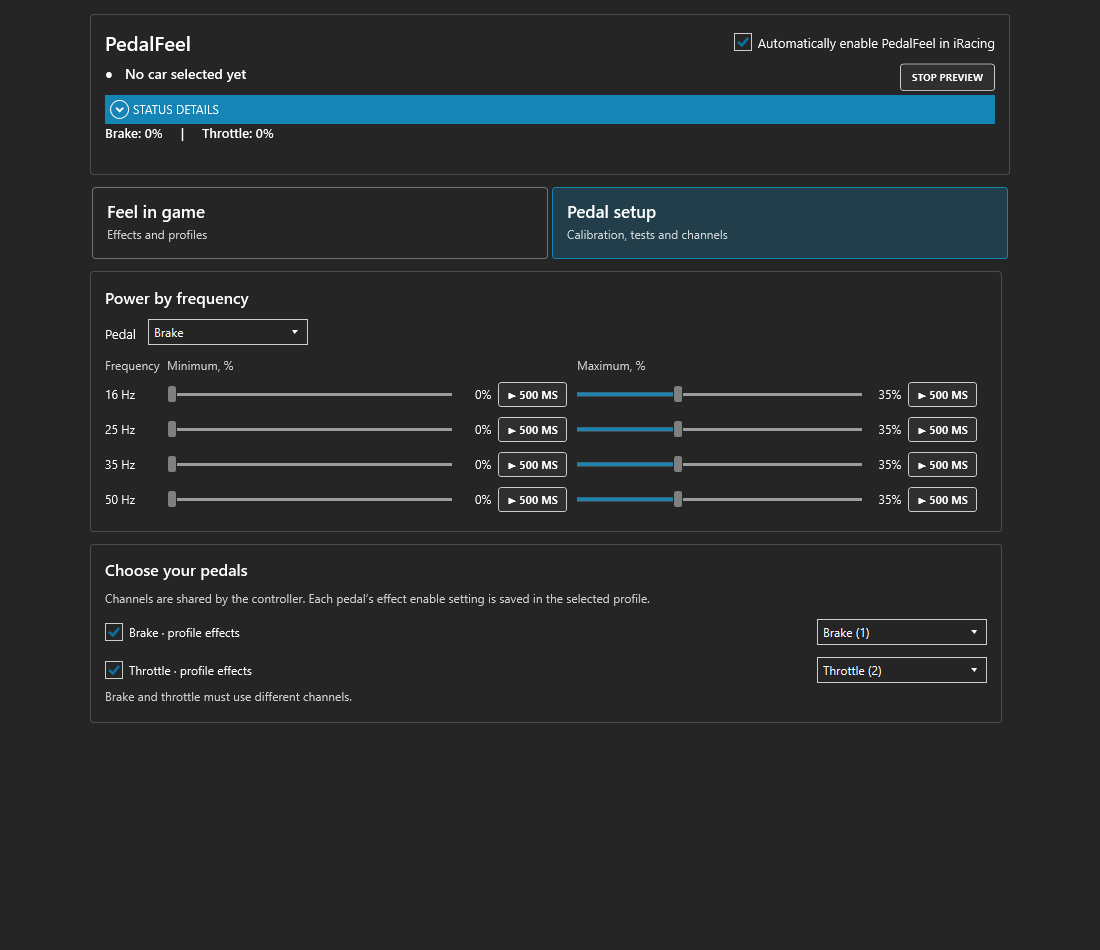
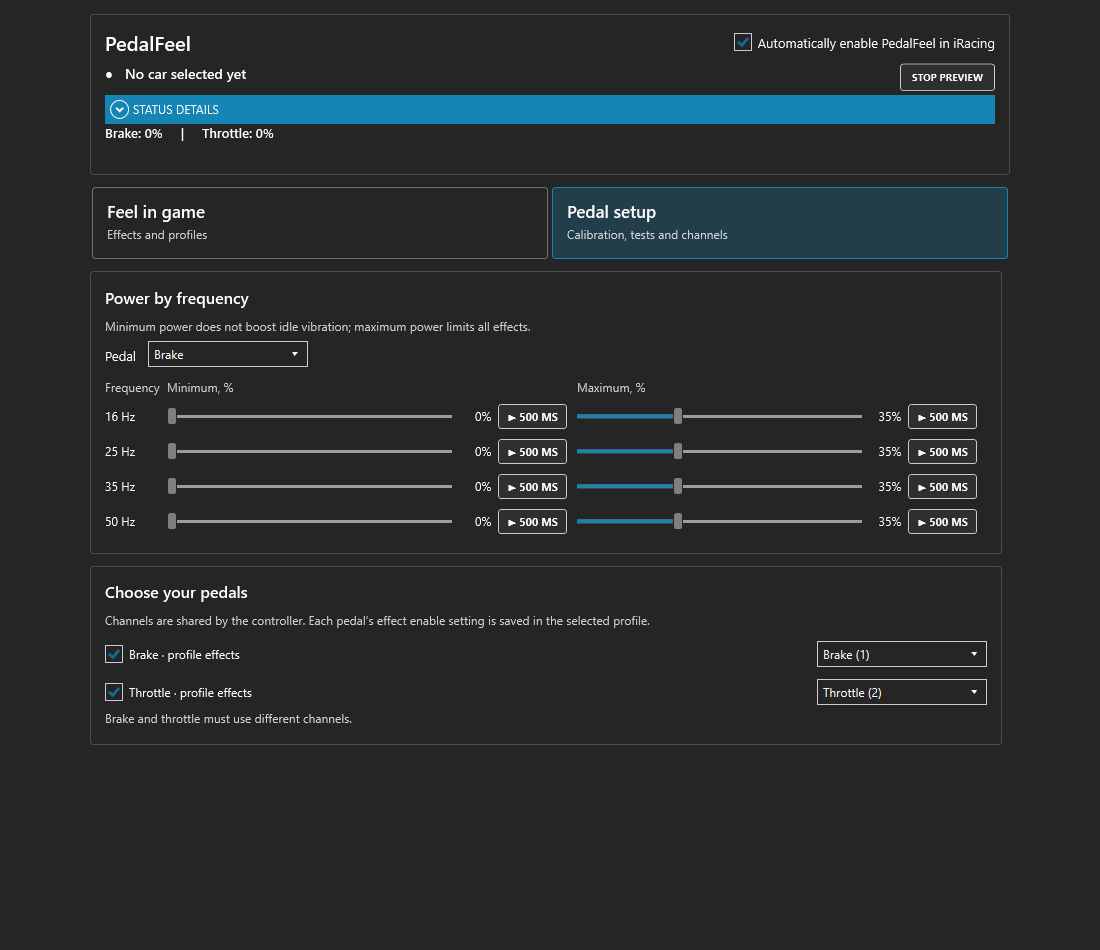
Keep stationary pedal feedback limited to configured idle

diff --git a/native/src/engine.cpp b/native/src/engine.cpp
@@ -9,6 +9,17 @@ namespace {
 bool range(double value, double minimum, double maximum) noexcept {
     return std::isfinite(value) && value >= minimum && value <= maximum;
 }
+pedalfeel::HapticFrame mixEngineCue(const pedalfeel::HapticFrame& brake,
+                                    const pedalfeel::HapticFrame& engine) noexcept {
+    auto mixed = pedalfeel::mixSurfaceCue(brake, engine);
+    // A quieter engine layer cannot retune or relabel a stronger brake cue.
+    if (brake.output >= engine.output && brake.output > .001) {
+        mixed.frequencyHz = brake.frequencyHz;
+        mixed.mode = brake.mode;
+    }
+    return mixed;
+}
+
 bool curve(const int32_t* minimum, const int32_t* maximum) noexcept {
     for (int i = 0; i < 4; ++i)
         if (minimum[i] < 0 || maximum[i] > 100 || minimum[i] > maximum[i])
@@ -26,7 +37,14 @@ void physical(const pedalfeel::HapticFrame& frame, double gain, const int32_t* m
     const int frequency = static_cast<int>(std::lround(std::clamp(frame.frequencyHz, 10.0, 50.0)));
     const pedalfeel::simagic::IntensityCurve low{minimum[0], minimum[1], minimum[2], minimum[3]};
     const pedalfeel::simagic::IntensityCurve high{maximum[0], maximum[1], maximum[2], maximum[3]};
-    intensity = pedalfeel::simagic::calibrateIntensity(requested, frequency, low, high);
+    if (frame.mode == pedalfeel::HapticMode::Idle) {
+        // Idle is a background level, not an alert: a motor's minimum must not
+        // turn a small idle setting into a strong continuous vibration.
+        const int ceiling = pedalfeel::simagic::interpolateIntensityCurve(high, frequency);
+        intensity = static_cast<int>(std::lround(std::clamp(frame.output * gain, 0.0, 1.0) * ceiling));
+    } else {
+        intensity = pedalfeel::simagic::calibrateIntensity(requested, frequency, low, high);
+    }
     hz = intensity > 0 ? frequency : 0;
 }
 
@@ -79,6 +97,7 @@ void Engine::resetRenderers() noexcept {
     brakeEngine_ = {};
     surface_ = {};
     running_ = false;
+    stationary_ = true;
 }
 
 void Engine::quiet() noexcept {
@@ -121,19 +140,39 @@ PfOutput Engine::update(bool fresh, bool connected, const pedalfeel::VehicleStat
             resetRenderers();
         pedalfeel::HapticFrame brake{}, throttle{};
         if (active) {
-            const pedalfeel::RenderSettings settings{config_.grip_threshold, config_.brake_strength,
-                                                    config_.brake_texture, config_.abs_punch,
-                                                    config_.downshift_kick};
-            brake = brake_.render(state, settings, includeLoading);
-            throttle = throttle_.render(state, config_.traction_strength, config_.engine_texture,
-                                        config_.shift_kick, config_.idle_texture, config_.limiter_strength);
-            auto engineOnBrake = brakeEngine_.render(state, 0, config_.brake_engine_texture, 0, config_.brake_idle_texture, 0);
-            engineOnBrake.output *= config_.brake_strength;
-            if (brake.mode != pedalfeel::HapticMode::Shift) brake = pedalfeel::mixSurfaceCue(brake, engineOnBrake);
-            auto surface = surface_.render(state, config_.surface_strength);
-            surface.brake.output *= config_.brake_strength;
-            brake = pedalfeel::mixSurfaceCue(brake, surface.brake);
-            throttle = pedalfeel::mixSurfaceCue(throttle, surface.throttle);
+            // Use a small dead band for telemetry noise at rest. Hysteresis
+            // prevents repeated switching while creeping around the boundary.
+            const double speed = std::isfinite(state.speedKph) ? std::abs(state.speedKph) : 0.0;
+            const bool stationary = speed <= (stationary_ ? 1.0 : .5);
+            if (stationary != stationary_) resetRenderers();
+            stationary_ = stationary;
+            if (stationary) {
+                // Discard driving envelopes on entry. Even a held brake,
+                // stale kerb signal, ABS flag or gear change cannot add output.
+                brake = brakeEngine_.render(state, 0, 0, 0, config_.brake_idle_texture, 0);
+                brake.output *= config_.brake_strength;
+                throttle = throttle_.render(state, 0, 0, 0, config_.idle_texture, 0);
+                if (config_.brake_idle_texture <= 0) brake = {};
+                if (config_.idle_texture <= 0) throttle = {};
+                // Release tails are still idle, including during a throttle blip.
+                // They must never regain the calibrated minimum of a driving cue.
+                brake.mode = brake.output > 0 ? pedalfeel::HapticMode::Idle : pedalfeel::HapticMode::Quiet;
+                throttle.mode = throttle.output > 0 ? pedalfeel::HapticMode::Idle : pedalfeel::HapticMode::Quiet;
+            } else {
+                const pedalfeel::RenderSettings settings{config_.grip_threshold, config_.brake_strength,
+                                                        config_.brake_texture, config_.abs_punch,
+                                                        config_.downshift_kick};
+                brake = brake_.render(state, settings, includeLoading);
+                throttle = throttle_.render(state, config_.traction_strength, config_.engine_texture,
+                                            config_.shift_kick, config_.idle_texture, config_.limiter_strength);
+                auto engineOnBrake = brakeEngine_.render(state, 0, config_.brake_engine_texture, 0, config_.brake_idle_texture, 0);
+                engineOnBrake.output *= config_.brake_strength;
+                brake = mixEngineCue(brake, engineOnBrake);
+                auto surface = surface_.render(state, config_.surface_strength);
+                surface.brake.output *= config_.brake_strength;
+                brake = pedalfeel::mixSurfaceCue(brake, surface.brake);
+                throttle = pedalfeel::mixSurfaceCue(throttle, surface.throttle);
+            }
             throttle.output *= config_.throttle_strength;
             running_ = true;
         }

diff --git a/managed/PedalFeelPanel.cs b/managed/PedalFeelPanel.cs
@@ -221,6 +221,7 @@ namespace PedalFeel.SimHub
             profile.Children.Add(_carText); profile.Children.Add(_carHint); profile.Children.Add(_profileSummary);
             profile.Children.Add(_profileState == null ? (UIElement)BuildPresetControls() : BuildNamedProfileControls()); page.Children.Add(Card(profile));
             if (_previewEffect != null) profile.Children.Add(BuildPreviewNotice());
+            profile.Children.Add(Note("На стоящей машине работает только холостой ход. 0% отключает его на выбранной педали."));
             var brake = CardBody("Тормоз");
             brake.Children.Add(SliderRow("Strength", "Сила тормозных эффектов", () => _settings.Strength, v => _settings.Strength = v, "Общая сила сигналов тормоза, включая ABS и блокировку колёс."));
             brake.Children.Add(SliderRow("GripThreshold", "Порог предупреждения", () => _settings.GripThreshold, v => _settings.GripThreshold = v, "Меньше — раньше, больше — позже. Предел сцепления оценивается по телеметрии.", .75, 1.05, false));
@@ -414,6 +415,7 @@ namespace PedalFeel.SimHub
         private StackPanel BuildCalibrationControls()
         {
             var body = CardBody("Мощность по частотам");
+            body.Children.Add(Note("Минимальная мощность не усиливает холостой ход; максимальная мощность ограничивает все эффекты."));
             var selector = new WrapPanel { Margin = new Thickness(0, 3, 0, 10) };
             var pedalLabel = Text("Педаль", 13); pedalLabel.Margin = new Thickness(0, 6, 0, 0); selector.Children.Add(pedalLabel);
             _testPedal = Named(new ComboBox { Width = 160, Margin = new Thickness(12, 0, 0, 0) }, "TestPedal");

diff --git a/native/src/engine.hpp b/native/src/engine.hpp
@@ -27,6 +27,7 @@ private:
     pedalfeel::SurfaceRenderer surface_;
     bool haveSample_{};
     bool running_{};
+    bool stationary_{true};
     double lastSampleAt_{};
     double lastSessionTime_{};
 };

diff --git a/native/README.md b/native/README.md
@@ -1,91 +1,35 @@
 # PedalFeel native bridge
 
-Read-only iRacing telemetry adapter and original PedalFeel renderers, exposed through
-a small C ABI for the SimHub plug-in. **This DLL has no HID/USB device access.**
-The managed plug-in exclusively owns device takeover and hardware output.
+Read-only iRacing telemetry reader and haptic rendering engine, exposed through a C ABI. The managed SimHub integration owns hardware output; this DLL does not open HID or USB devices.
 
-## Sources and licence
+## Source and licences
 
-Vendored files are based on UdaraJay/PedalFeel commit
-`06649f3cd7c59abaa5f928d82752ae9d8a3956ef` (MIT). Version 0.3.4 adds separate limiter
-and brake-downshift controls and corrects ownership/ducking for effects set to zero.
-These are explicit local renderer changes, documented in `vendor/pedalfeel/LOCAL_CHANGES.md`. See
-`vendor/pedalfeel/LICENSE` and `vendor/pedalfeel/THIRD_PARTY_NOTICES.md`.
-Wrapper files are also distributed under MIT, as stated in `LICENSE`.
-Binary distributions must include `licenses/LLVM-LICENSE.TXT` and
-`licenses/MinGW-w64-runtime.txt` for the statically linked C++ and MinGW runtimes.
-Keep the documented renderer changes when updating the upstream sources.
+The telemetry reader and renderers are based on [UdaraJay/PedalFeel](https://github.com/UdaraJay/PedalFeel), commit `06649f3cd7c59abaa5f928d82752ae9d8a3956ef`, under the MIT licence. Renderer adaptations are described in [LOCAL_CHANGES.md](vendor/pedalfeel/LOCAL_CHANGES.md). Retain [the upstream licence](vendor/pedalfeel/LICENSE), [iRacing notices](vendor/pedalfeel/THIRD_PARTY_NOTICES.md) and the wrapper [licence](LICENSE).
 
-## ABI
+Binary distributions also include `licenses/LLVM-LICENSE.TXT` and `licenses/MinGW-w64-runtime.txt` for the statically linked runtimes.
 
-`include/pedalfeel_api.h` is authoritative. Use cdecl, sequential layout and pack=8.
-`PfConfig` is 176 bytes and `PfOutput` is 80 bytes on x86 and x64. All integers are
-32 bits; no strings, objects or booleans cross the boundary. Set size to sizeof the relevant structure and version=3
-before calls. Serialize all operations on each opaque handle. No callbacks or
-background threads are created by the DLL. Poll every ~4 ms and always inspect
-the returned output, even when `new_sample` is false: the telemetry timeout can
-stop the output between samples.
+## ABI and output
 
-The original rendering model, mixing order, integer rounding and four-anchor
-calibration are retained, with the explicit per-effect changes listed above.
-A repeated iRacing frame does not advance
-the renderers. Disconnect, replay/garage state or >=250 ms without a new frame
-zero output; filters reset on recovery, configuration changes and session rollback.
-The `effects_gain` double at offset 152 accepts finite values from 0 to 4.2
-and defaults to 2.1. The UI shows this baseline as ×1 and maps its ×0..×2 slider
-to native gain 0..4.2. The new ×1 is 70% of the 0.3.3 default. It scales mixed signals before intensity rounding and calibration;
-zero stays off, and calibrated commands retain the configured ceiling. Raw output
-fields remain the original signal before amplification. A gain of 1 reproduces
-the unamplified mixed output. The `limiter_strength` double at offset 160 and
-`downshift_kick` at offset 168 accept finite 0..1 values and default to .20.
-Upshift (`shift_kick`) also defaults to .20. A value of 1 for the new per-effect
-controls reproduces the original fixed limiter and downshift pulses; zero disables
-their amplitude, frequency/mode ownership and any attenuation of other effects.
-Intensity calibration defaults to 0..35% per channel, pending user calibration.
-Calibration anchor frequencies are 16, 25, 35 and 50 Hz. The remaining effect defaults
-match upstream. The DLL only supports iRacing, as does the upstream application.
+`include/pedalfeel_api.h` defines ABI version 4. Use cdecl, pack=8, 32-bit integers and IEEE-754 doubles. `PfConfig` is 200 bytes and `PfOutput` is 80 bytes on both x86 and x64. Set structure sizes and versions before calling. Serialize access to each opaque handle, including destruction.
 
-## Reproducible build on Windows
+The caller polls the engine and consumes every returned output, including calls where `new_sample` is false. Duplicate telemetry frames do not advance the renderers. Disconnection, inactive driving and telemetry older than 250 ms silence output. Recovery, session rollback and transitions between driving and stationary operation reset effect envelopes. Settings changes preserve driving state and wait for a new sample before sending another command.
 
-Requires a portable LLVM-MinGW C++20 toolchain, available from
-https://github.com/mstorsjo/llvm-mingw/releases/tag/20260922 . Use
-`llvm-mingw-20260922-ucrt-x86_64.zip`, extracted under `.tools`. Both targets
-statically link the C++ runtime; the target computer needs Windows UCRT, not LLVM.
-Archive SHA-256:
[1 lines of base64/hex data omitted]
+At rest, the engine renders only each pedal's configured idle effect. Stationary operation ends above 1 km/h and resumes at or below 0.5 km/h; this hysteresis prevents switching due to small speed fluctuations. Invalid speed is treated as stationary. Brake pressure, tyre feedback, road effects, shifts, limiter and loaded-engine vibration are excluded while stationary.
+
+`effects_gain` defaults to 2.1 and accepts values from 0 to 4.2. The interface uses the fixed 2.1 baseline with independent pedal and effect strengths. Calibration uses four anchors at 16, 25, 35 and 50 Hz, initially 0–35%. Driving cues use the calibrated minimum and maximum. Idle uses its proportional signal and frequency maximum without applying a minimum-power floor. Disabled pedals and zero signals remain silent.
+
+## Effect previews
+
+`pf_preview` renders an isolated effect from simulated input. It uses the same renderers and physical conversion as live output, without reading game telemetry or writing to hardware. It is an illustration, not a recording from a car.
+
+Preview IDs are defined in `PfPreviewEffect`, including separate engine and idle effects on the brake. The host owns preview cancellation and transport. Previews end after two seconds and report `connected=0`. Invalid input is rejected without updating the output structure.
+
+## Build on Windows
+
+Use a C++20 LLVM-MinGW toolchain, such as `llvm-mingw-20260922-ucrt-x86_64` from [LLVM-MinGW releases](https://github.com/mstorsjo/llvm-mingw/releases/tag/20260922).
 
 ```powershell
-./build.ps1 -Toolchain 'C:\path\llvm-mingw-20260922-ucrt-x86_64' -Architecture both
+./build.ps1 -Toolchain 'C:\Tools\llvm-mingw-20260922-ucrt-x86_64' -Architecture both
 ```
 
-Outputs: `build/x86/PedalFeel.Native.dll` and `build/x64/PedalFeel.Native.dll`.
-## Isolated effect previews (0.4.0)
-
-The additive `pf_preview(config, effect, elapsed_seconds, output)` export uses the
-same ABI v3 structures (176/80 bytes) and does not need a runtime handle. It replays
-one scripted synthetic event at 60 Hz through fresh instances of the actual brake,
-throttle or surface renderer, then calls the same `physical()` conversion as live
-output. Current effect strengths (including zero), overall gain, frequency
-calibration and enabled channels are respected. A preview is an illustration of
-the algorithm; it is not a recording or prediction of a particular car.
-
-Stable IDs in `PfPreviewEffect` select brake loading, threshold, locking, ABS,
-downshift, traction, engine, limiter, idle, upshift, a road impact or a kerb. IDs
-0–4 target only brake, 5–9 only throttle, and 10–11 both enabled channels. Chassis
-crossfeed is intentionally omitted to make the selected pedal/effect clear.
-For threshold and lock previews, the pressure foundation is omitted through the
-optional C++ `BrakeRenderer::render(..., includeLoading=false)` argument; live
-rendering keeps its default true. Other unrelated effects are set to zero.
-
-Each call independently replays from the start up to the requested elapsed time,
-so there is no shared preview state and live telemetry/filter state cannot be
-changed. Upshift/downshift use one real gear transition at 150 ms; the impact uses
-one onset at 150 ms. Continuous effects use ramps and renderer envelopes, and the
-limiter retains its renderer pulse/pitch cadence. At elapsed time >=2 seconds the
-result is silent. Negative or nonfinite time, invalid configuration/ID, or a bad
-output header is rejected atomically without changing the output.
-
-During an active preview `new_sample=1`, `driving_active=1`, `stale=0` and sample age
-is zero; `session_time` is preview elapsed time. `connected` remains zero because
-this API does not inspect an actual game or device. The host must separately
-verify device availability and own/cancel the output. No DLL code writes HID/USB.
+Outputs: `build/x86/PedalFeel.Native.dll` and `build/x64/PedalFeel.Native.dll`. The target computer needs Windows UCRT; it does not need the compiler.

diff --git a/README.md b/README.md
@@ -32,7 +32,7 @@ The pedal families in that entry are SimHub's device name, not a list of physica
 
 ## Install or update
 
-1. Download **PedalFeel-SimHub-0.5.1.zip** from the release assets and extract it. The **Source code** archives are not the installation package. Close SimHub for installation.
+1. Download **PedalFeel-SimHub-0.5.2.zip** from the release assets and extract it. The **Source code** archives are not the installation package. Close SimHub for installation.
 2. Run **Install.cmd**. If prompted, select `SimHubWPF.exe` in your SimHub folder.
 3. Start SimHub and open **Devices → Simagic Haptic Pedals Reactor → PedalFeel**. If the device is missing, first add it through **Devices → Add new device → Simagic Haptic Pedals Reactor**. Leave the device enabled.
 4. Enable **Automatically enable PedalFeel in iRacing**.
@@ -52,6 +52,12 @@ The original standalone PedalFeel can also run alongside SimHub when SimHub's ou
 Automatic mode waits for the **iRacing simulator itself**. Opening the iRacing launcher/UI or selecting iRacing in SimHub is not enough. Outside the simulator, normal SimHub output remains available. An explicit effect preview or motor test temporarily takes control even without the game.
 
 While PedalFeel owns the output, **Effects** and **Hardware settings** explain why their controls are locked. **Return control to SimHub** turns off automatic mode. Closing the simulator returns control automatically; SimHub can take up to four seconds to detect the exit. Pauses and replays produce silence, and stalled telemetry is silenced after 250 ms.
+
+## When the car is stopped
+
+Only the configured **Idle** effect plays on each pedal. Set that pedal's Idle slider to 0% for silence at rest. Brake pressure, ABS, wheel lock, traction, engine vibration under throttle, limiter, gear shifts and road effects cannot add vibration while stopped. Driving effects resume when the car starts moving.
+
+Idle follows its effect strength and pedal strength without being raised to the motor's minimum power. The maximum power at each frequency still applies. **Try** and **500 ms** remain available as deliberate manual previews.
 
 ## Profiles
 
@@ -95,7 +101,7 @@ Effect previews cover grip warning, ABS, downshift, rear traction loss, engine a
 
 In **Pedal setup**, select a pedal and use the frequency-row sliders and **500 ms** buttons. Set a barely perceptible minimum and a comfortable maximum at each frequency. Moving a slider saves it without starting the motor. Initial motor limits are 0–35%; adjust them for your actuators, mounting and pedals.
 
-A maximum of 100% is a ceiling, not a request to vibrate constantly at full power. Small game signals can remain small. A high minimum strengthens every nonzero signal, so use effect strength to tune the effect itself. Zero game signal remains silent even with a nonzero minimum.
+A maximum of 100% is a ceiling, not a request to vibrate constantly at full power. Small game signals can remain small. A high minimum strengthens nonzero driving cues. Idle is exempt from this minimum so a low idle setting stays quiet; it still respects the frequency maximum. Zero game signal remains silent even with a nonzero minimum.
 
 If redline feedback is too strong, lower **Limiter** for the cutoff pulse or **Engine vibration** for vibration that rises with RPM. These are independent controls.
 

diff --git a/docs/CHANGELOG-0.5.2.md b/docs/CHANGELOG-0.5.2.md
@@ -1,0 +1,7 @@
+# 0.5.2
+
+- At standstill, only the configured idle effect plays on each pedal. Setting Idle to 0% silences that pedal at rest.
+- Stopping clears driving-effect envelopes, including brake pressure, ABS, shifts and road feedback.
+- Motor minimum power no longer amplifies idle vibration. Per-frequency maximums and pedal strength still apply.
+- A weaker engine background no longer changes the frequency or displayed mode of stronger brake feedback.
+- Added explanations in all seven interface languages. Existing profiles, car assignments and calibration settings are retained.
